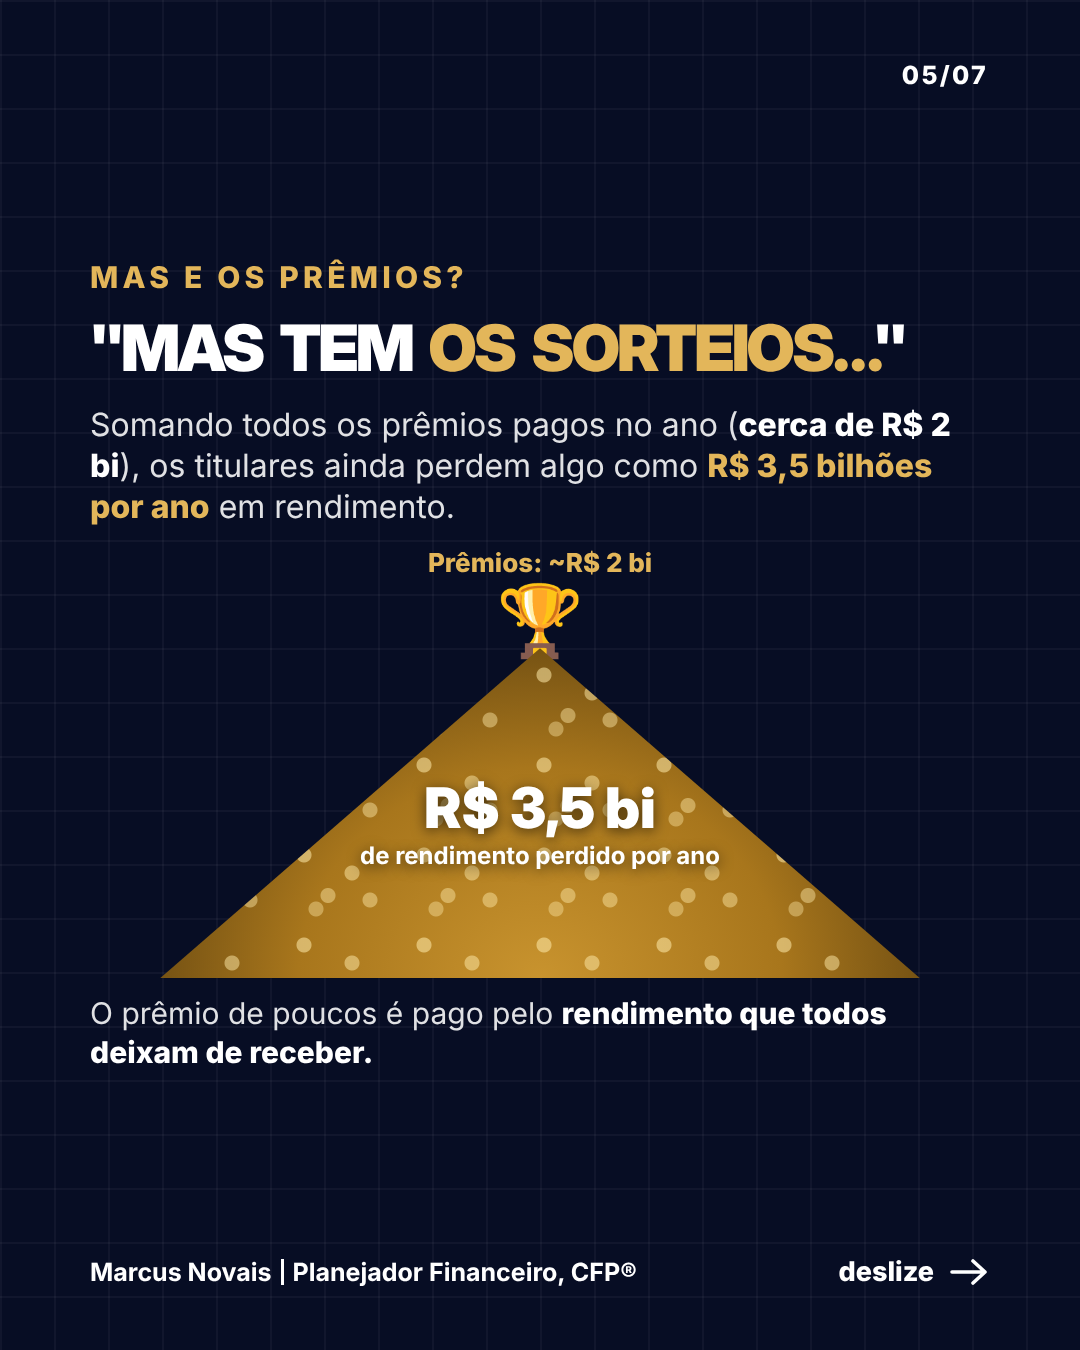
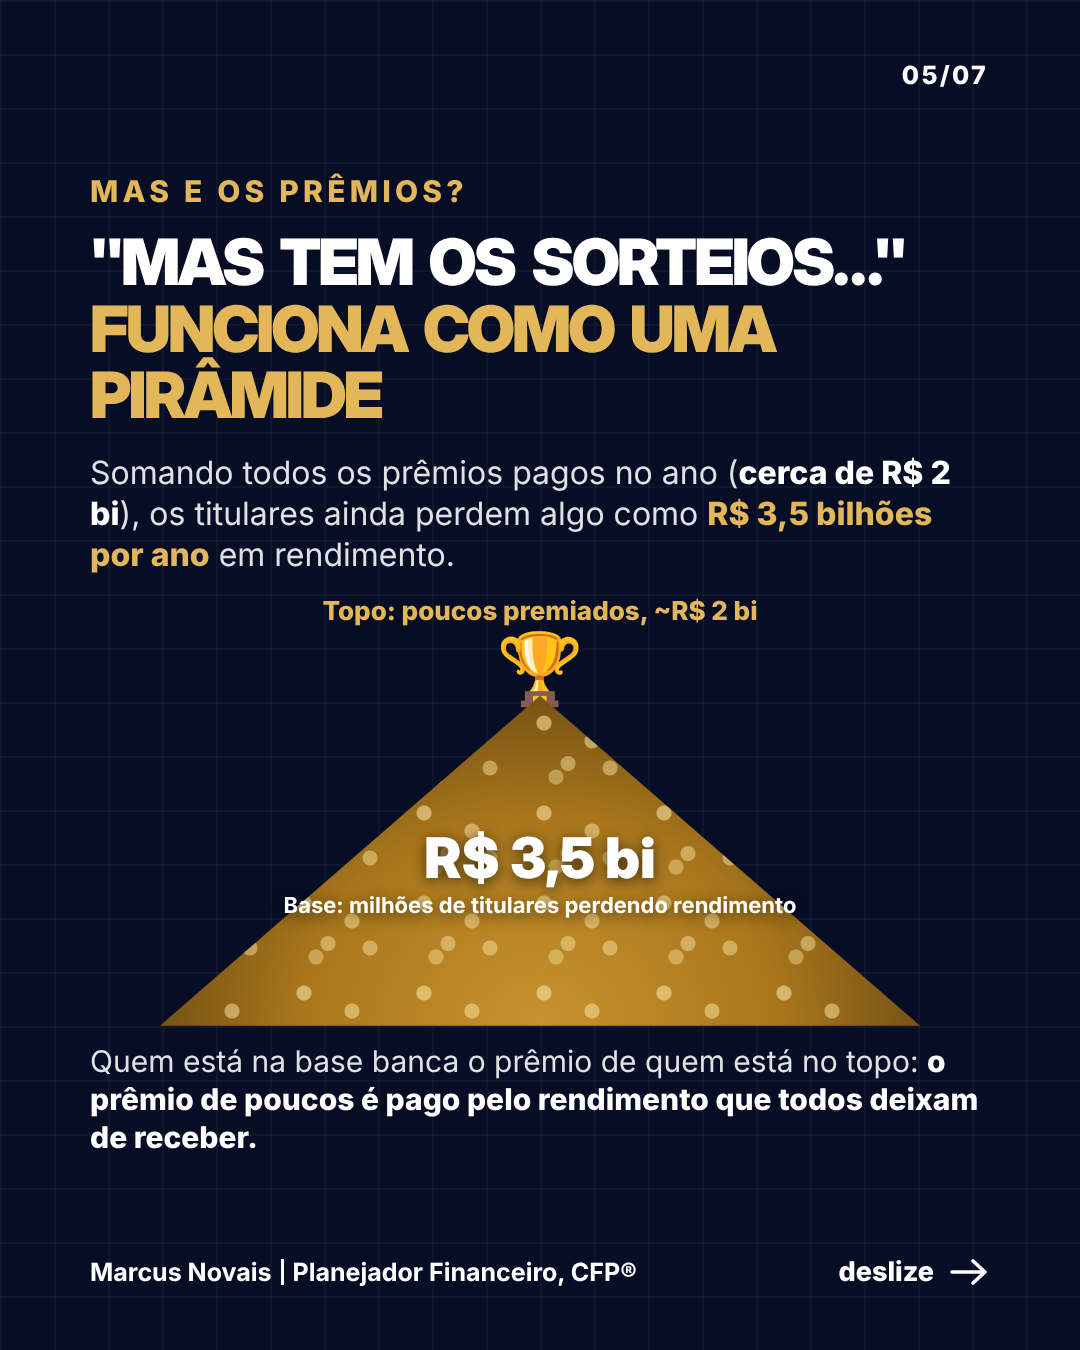
Carrossel título de capitalização: pirâmide no slide 5 e foto mais visível
Claude-Session: https://claude.ai/code/session_01JkBXj6tz5hpSkGAznkwYEm

Changed region(s): [[0.0611, 0.1244, 0.9167, 0.8711]]

diff --git a/carrossel-titulo-capitalizacao/slides.html b/carrossel-titulo-capitalizacao/slides.html
@@ -121,14 +121,14 @@
   .mount .tro { position:absolute; left:50%; bottom:316px; transform:translateX(-50%); font-size:70px; }
   .mount .l1 { position:absolute; left:50%; transform:translateX(-50%); bottom:400px; font-size:26px; font-weight:800; color:var(--gold); white-space:nowrap; }
   .mount .l2 { position:absolute; left:50%; transform:translateX(-50%); bottom:110px; font-family:"Inter Display","Inter",sans-serif; font-weight:900; font-size:56px; color:#fff; text-shadow:0 3px 14px rgba(0,0,0,.6); white-space:nowrap; text-align:center; line-height:1; }
-  .mount .l2 small { display:block; font-family:"Inter",sans-serif; font-size:24px; font-weight:700; margin-top:8px; }
+  .mount .l2 small { display:block; font-family:"Inter",sans-serif; font-size:22px; font-weight:700; margin-top:8px; }
   .light ul li { font-size:34px; }
 </style>
 </head>
 <body>
 <script>
 const PH=(k,pos,extra)=>`<img src="img/${k}.jpg" style="object-position:${pos||'50% 50%'};${extra||''}">`;
-const SH='<div class="shade" style="background:linear-gradient(180deg, rgba(7,13,36,.05) 0%, rgba(7,13,36,.1) 34%, rgba(7,13,36,.85) 56%, rgba(7,13,36,.97) 100%)"></div>';
+const SH='<div class="shade" style="background:linear-gradient(180deg, rgba(7,13,36,0) 0%, rgba(7,13,36,0) 40%, rgba(7,13,36,.55) 54%, rgba(7,13,36,.85) 70%, rgba(7,13,36,.92) 100%)"></div>';
 const S=[];
 // 1 capa
 S.push({h:`<div class="bg">${PH('marcus','50% 12%')}</div>${SH}
@@ -155,10 +155,10 @@ S.push({light:1, h:`<div class="page"><div class="pill">Na ponta do lápis</div>
  <p style="margin-top:26px; font-size:32px"><b>R$ 1.000 a menos no seu bolso.</b> E isso no melhor cenário: 100% do valor pago vai para a sua reserva e você não resgata antes do prazo.</p></div>`});
 // 5 e os prêmios?
 S.push({h:`<div class="page"><div class="pill">Mas e os prêmios?</div>
- <h2>"Mas tem <em>os sorteios…</em>"</h2>
+ <h2>"Mas tem os sorteios…" <em>Funciona como uma pirâmide</em></h2>
  <p style="font-size:32px">Somando todos os prêmios pagos no ano (<b>cerca de R$ 2 bi</b>), os titulares ainda perdem algo como <b class="g">R$ 3,5 bilhões por ano</b> em rendimento.</p>
- <div class="mount"><div class="l1">Prêmios: ~R$ 2 bi</div><div class="tro">🏆</div><div class="pile"></div><div class="l2">R$ 3,5 bi<small>de rendimento perdido por ano</small></div></div>
- <p style="font-size:30px; margin-top:16px">O prêmio de poucos é pago pelo <b>rendimento que todos deixam de receber.</b></p></div>`});
+ <div class="mount"><div class="l1">Topo: poucos premiados, ~R$ 2 bi</div><div class="tro">🏆</div><div class="pile"></div><div class="l2">R$ 3,5 bi<small>Base: milhões de titulares perdendo rendimento</small></div></div>
+ <p style="font-size:30px; margin-top:16px">Quem está na base banca o prêmio de quem está no topo: <b>o prêmio de poucos é pago pelo rendimento que todos deixam de receber.</b></p></div>`});
 // 6 por que vende
 S.push({light:1, h:`<div class="page"><div class="pill">O mecanismo</div>
  <h2>Por que <em>todo mundo</em> tem um?</h2>
